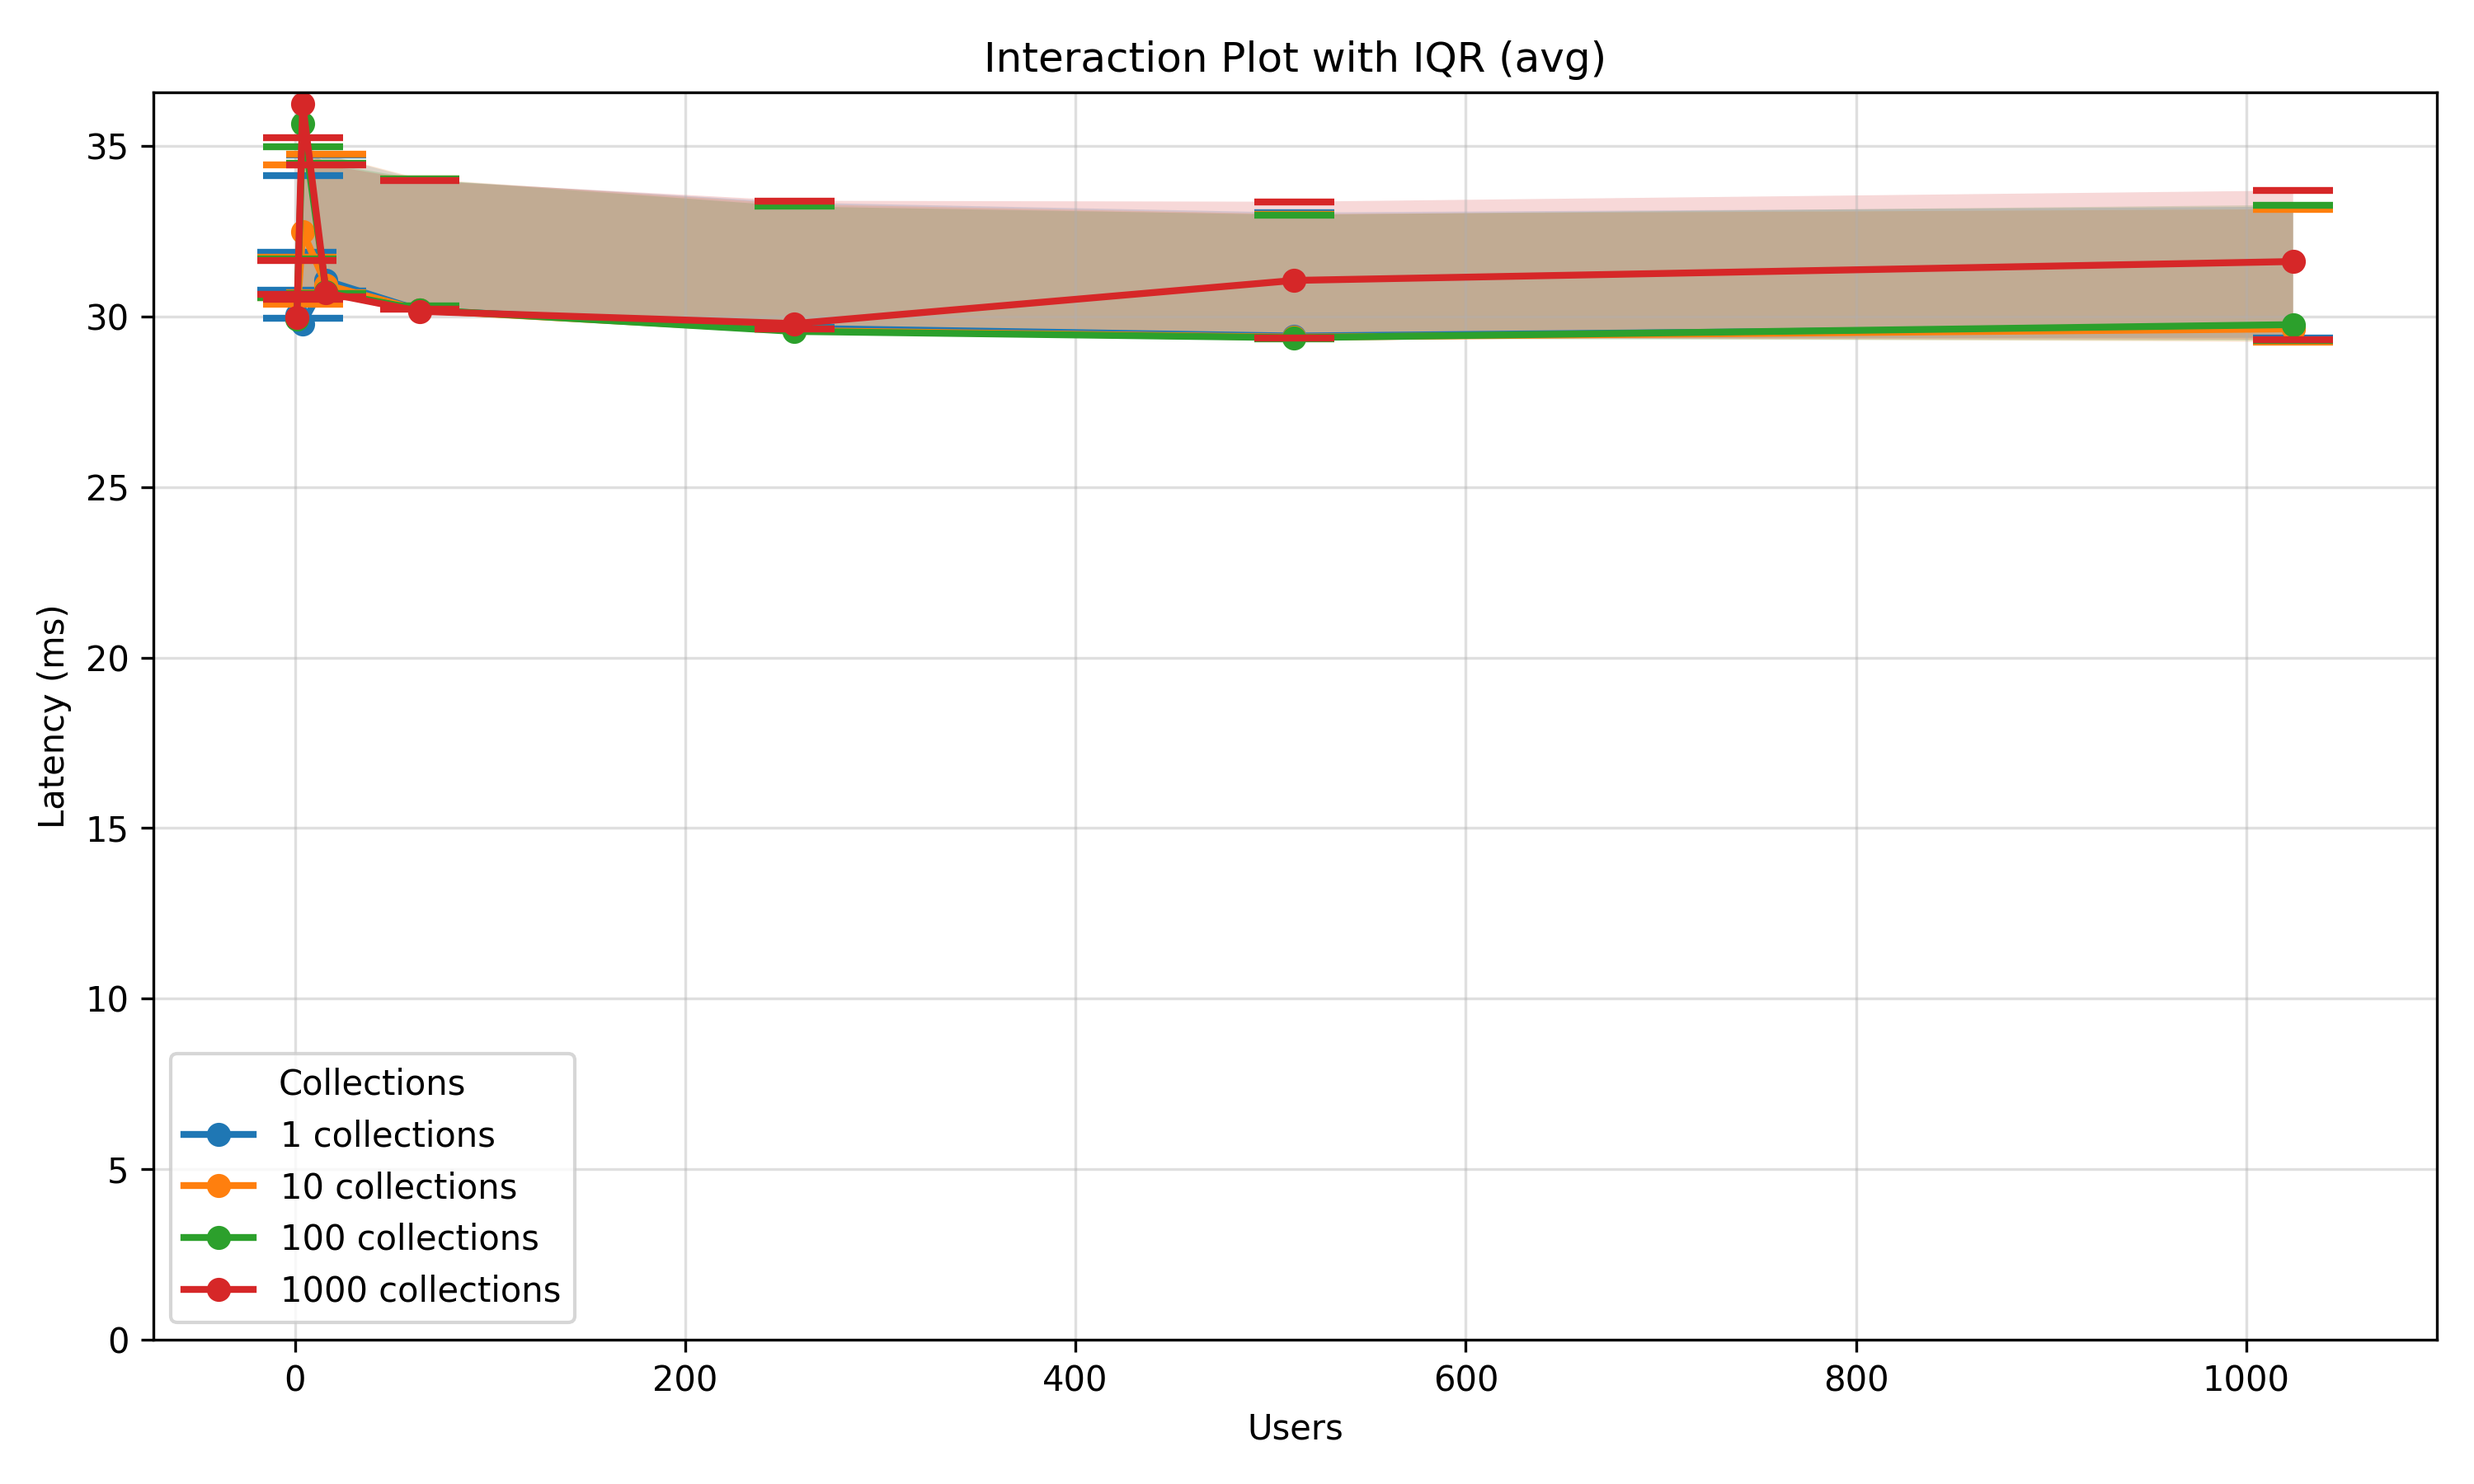
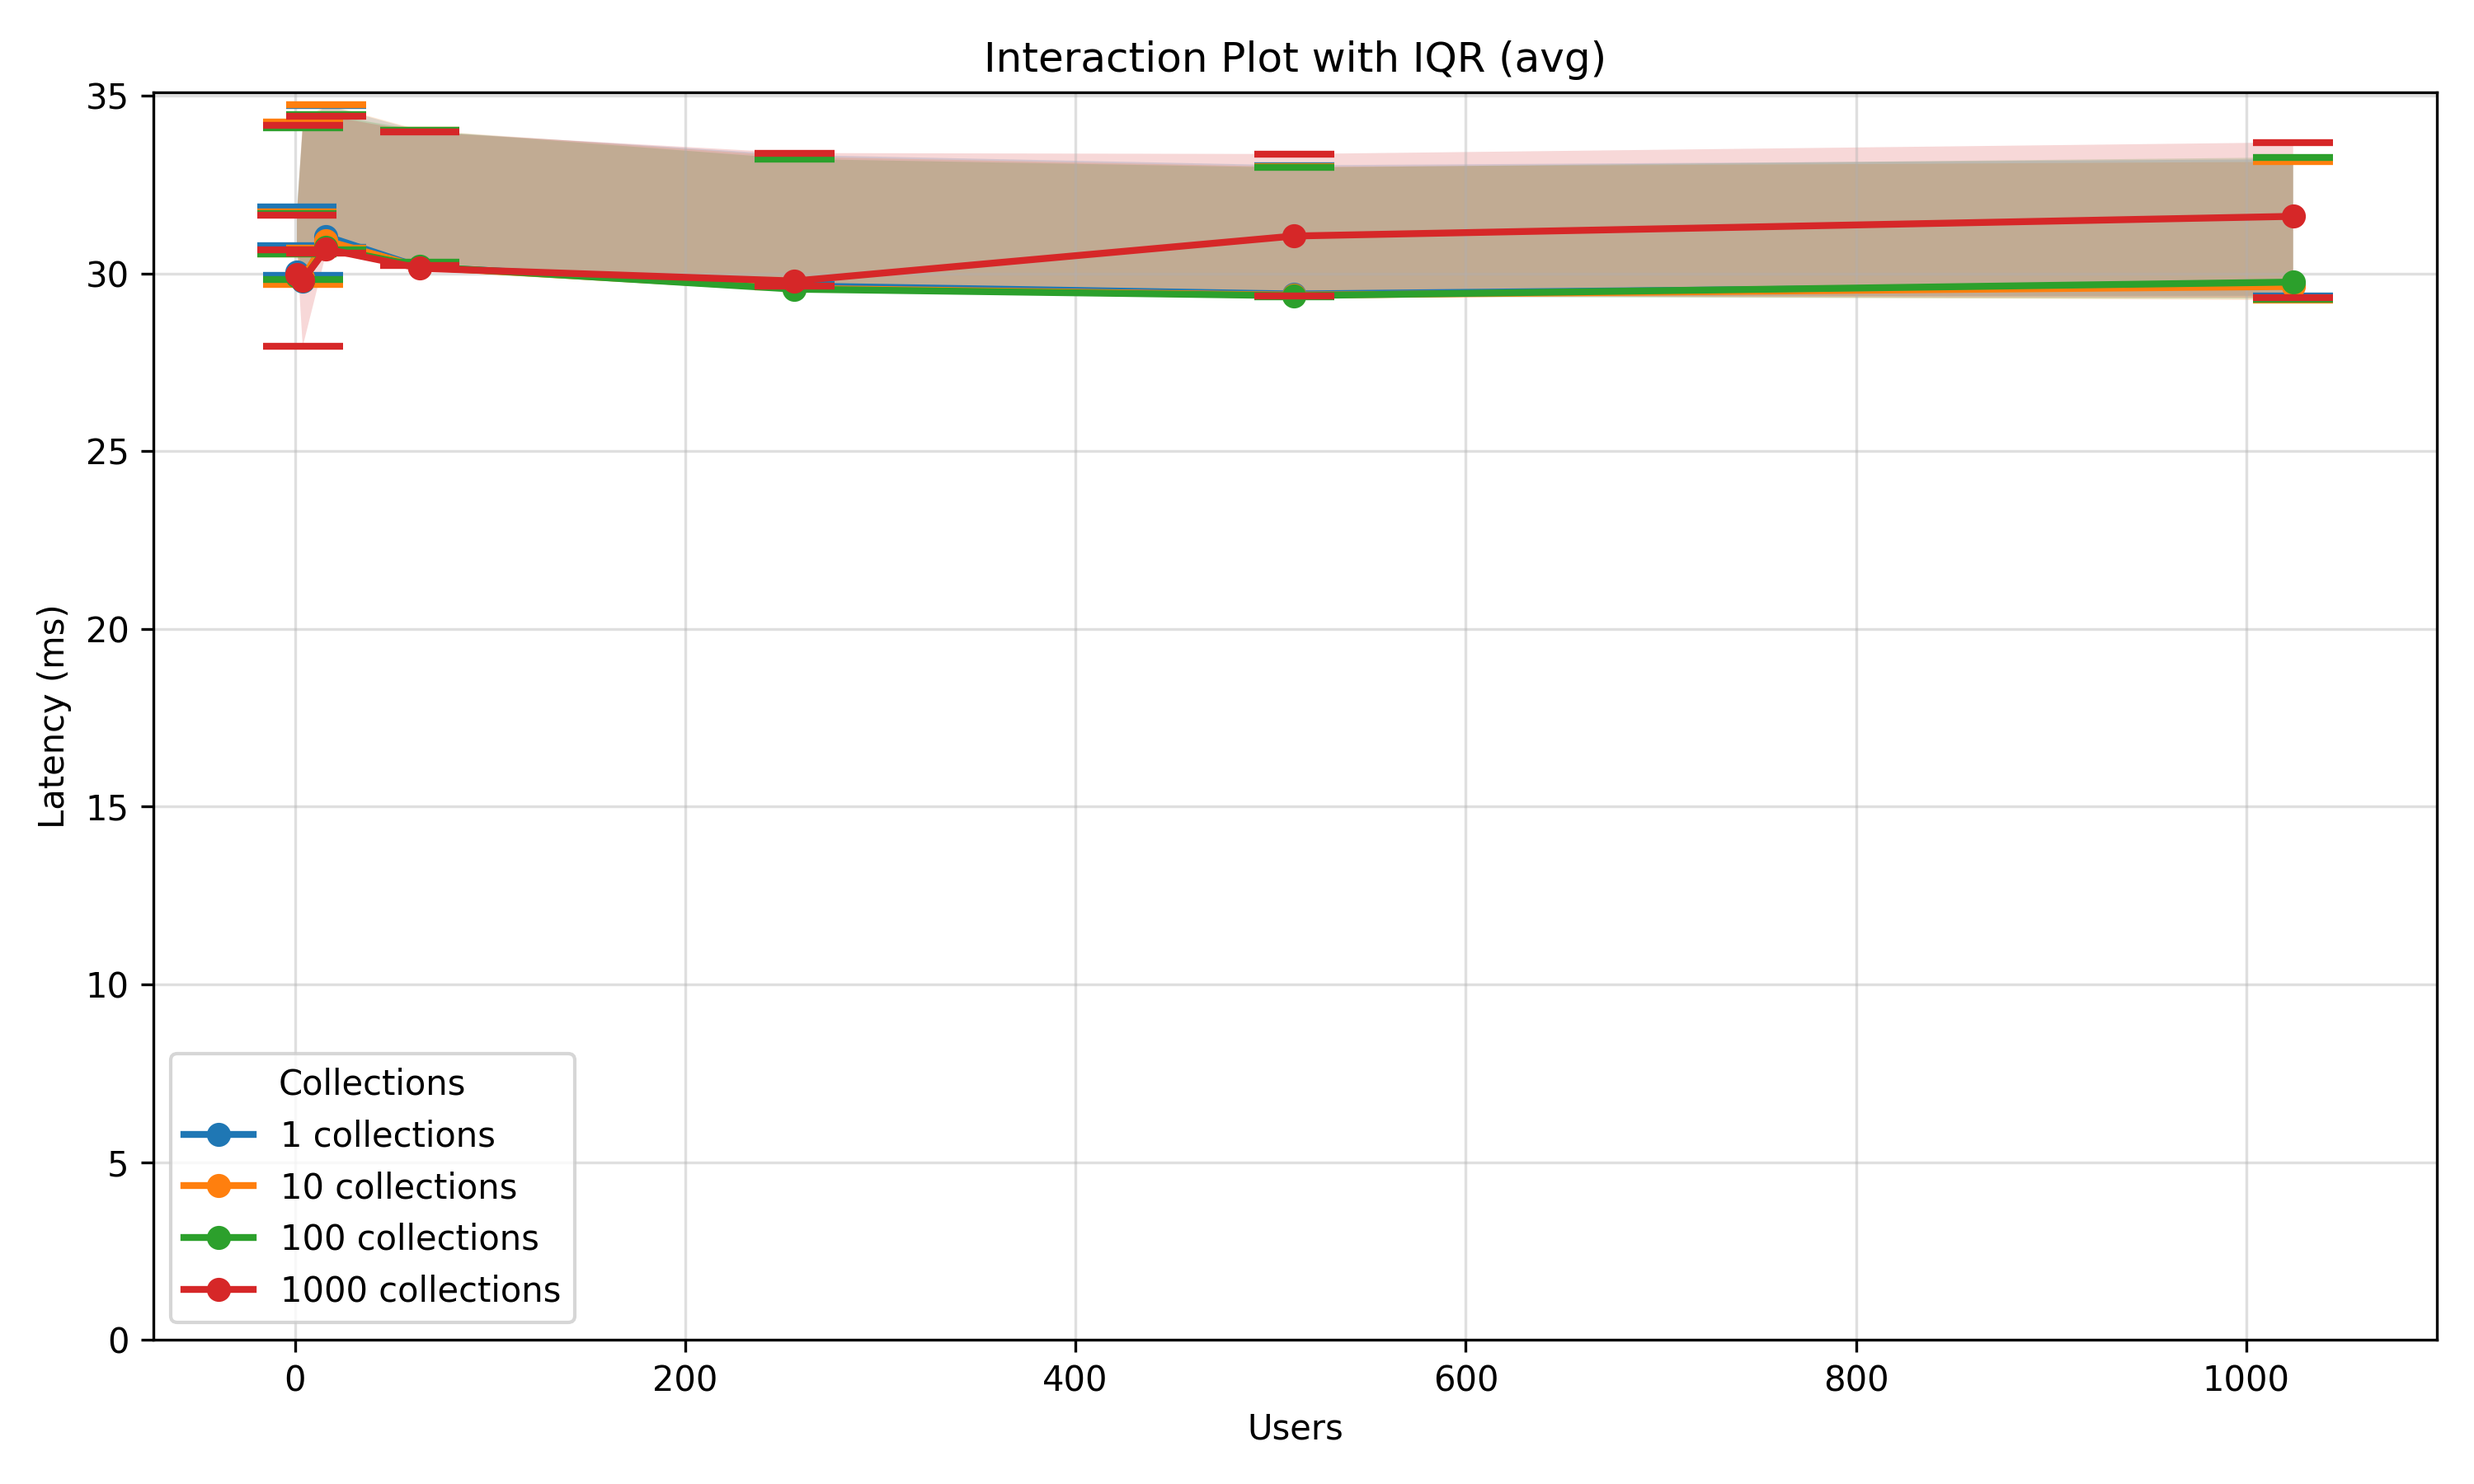
Add conflict_eventual experiment

diff --git a/ermes_benchmark/convergence_test/output_img/conflict_1/messaggi_chord_diagram.html b/ermes_benchmark/convergence_test/output_img/conflict_1/messaggi_chord_diagram.html
@@ -1889,7 +1889,7 @@ Forked      : Mike Bostock; https://observablehq.com/@d3/directed-chord-diagram
 
 })();
 
-    const jsonData = {"nodes":[{"name":"55_Gossip_Message","color":"#8c564b","opacity":0.8}, {"name":"50_Gossip_Message","color":"#1f77b4","opacity":0.8}, {"name":"59_Function_Invocation","color":"#bcbd22","opacity":0.8}, {"name":"51_Function_Invocation","color":"#ff7f0e","opacity":0.8}, {"name":"55_Offloaded_Function_Invocation","color":"#8c564b","opacity":0.8}, {"name":"51_Offloaded_Function_Invocation","color":"#ff7f0e","opacity":0.8}, {"name":"51_Gossip_Message","color":"#ff7f0e","opacity":0.8}, {"name":"55_Update_Propagation","color":"#8c564b","opacity":0.8}, {"name":"51_Update_Propagation","color":"#ff7f0e","opacity":0.8}, {"name":"56_Gossip_Message","color":"#e377c2","opacity":0.8}, {"name":"52_Gossip_Message","color":"#2ca02c","opacity":0.8}, {"name":"53_Gossip_Message","color":"#d62728","opacity":0.8}, {"name":"60_Function_Invocation","color":"#17becf","opacity":0.8}, {"name":"54_Function_Invocation","color":"#9467bd","opacity":0.8}, {"name":"54_Gossip_Message","color":"#9467bd","opacity":0.8}, {"name":"56_Collection_Received","color":"#e377c2","opacity":0.8}, {"name":"54_Collection_Received","color":"#9467bd","opacity":0.8}, {"name":"56_Update_Propagation","color":"#e377c2","opacity":0.8}, {"name":"54_Update_Propagation","color":"#9467bd","opacity":0.8}, {"name":"57_Offloaded_Function_Invocation","color":"#7f7f7f","opacity":0.8}, {"name":"57_Gossip_Message","color":"#7f7f7f","opacity":0.8}, {"name":"51_Collection_Received","color":"#ff7f0e","opacity":0.8}, {"name":"55_Collection_Received","color":"#8c564b","opacity":0.8}, {"name":"57_Update_Propagation","color":"#7f7f7f","opacity":0.8}, {"name":"54_Collection_Lookup","color":"#9467bd","opacity":0.8}, {"name":"56_Collection_Lookup","color":"#e377c2","opacity":0.8}, {"name":"54_Offloaded_Function_Invocation","color":"#9467bd","opacity":0.8}, {"name":"56_Offloaded_Function_Invocation","color":"#e377c2","opacity":0.8}, {"name":"57_Collection_Received","color":"#7f7f7f","opacity":0.8}, {"name":"57_Collection_Lookup","color":"#7f7f7f","opacity":0.8},], "links":[{"source":1,"target":0,"value":10.0,"opacity":0.9,"color":"#ffbb78"},{"source":21,"target":22,"value":1.0,"opacity":0.9,"color":"#aec7e8"},{"source":6,"target":0,"value":10.0,"opacity":0.9,"color":"#ffbb78"},{"source":5,"target":4,"value":462.0,"opacity":0.9,"color":"#2ca02c"},{"source":8,"target":7,"value":76.0,"opacity":0.9,"color":"#98df8a"},{"source":10,"target":9,"value":10.0,"opacity":0.9,"color":"#ffbb78"},{"source":11,"target":9,"value":10.0,"opacity":0.9,"color":"#ffbb78"},{"source":24,"target":25,"value":1.0,"opacity":0.9,"color":"#1f77b4"},{"source":14,"target":9,"value":10.0,"opacity":0.9,"color":"#ffbb78"},{"source":26,"target":27,"value":688.0,"opacity":0.9,"color":"#2ca02c"},{"source":22,"target":28,"value":1.0,"opacity":0.9,"color":"#aec7e8"},{"source":0,"target":1,"value":10.0,"opacity":0.9,"color":"#ffbb78"},{"source":0,"target":6,"value":10.0,"opacity":0.9,"color":"#ffbb78"},{"source":0,"target":20,"value":10.0,"opacity":0.9,"color":"#ffbb78"},{"source":4,"target":5,"value":76.0,"opacity":0.9,"color":"#2ca02c"},{"source":4,"target":19,"value":412.0,"opacity":0.9,"color":"#2ca02c"},{"source":7,"target":8,"value":924.0,"opacity":0.9,"color":"#98df8a"},{"source":7,"target":23,"value":176.0,"opacity":0.9,"color":"#98df8a"},{"source":25,"target":29,"value":1.0,"opacity":0.9,"color":"#1f77b4"},{"source":15,"target":16,"value":1.0,"opacity":0.9,"color":"#aec7e8"},{"source":9,"target":10,"value":10.0,"opacity":0.9,"color":"#ffbb78"},{"source":9,"target":11,"value":10.0,"opacity":0.9,"color":"#ffbb78"},{"source":9,"target":14,"value":10.0,"opacity":0.9,"color":"#ffbb78"},{"source":9,"target":20,"value":10.0,"opacity":0.9,"color":"#ffbb78"},{"source":27,"target":19,"value":638.0,"opacity":0.9,"color":"#2ca02c"},{"source":17,"target":18,"value":624.0,"opacity":0.9,"color":"#98df8a"},{"source":28,"target":15,"value":1.0,"opacity":0.9,"color":"#aec7e8"},{"source":20,"target":0,"value":10.0,"opacity":0.9,"color":"#ffbb78"},{"source":20,"target":9,"value":10.0,"opacity":0.9,"color":"#ffbb78"},{"source":19,"target":4,"value":176.0,"opacity":0.9,"color":"#2ca02c"},{"source":23,"target":7,"value":824.0,"opacity":0.9,"color":"#98df8a"},{"source":23,"target":17,"value":724.0,"opacity":0.9,"color":"#98df8a"},{"source":2,"target":3,"value":1000.0,"opacity":0.9,"color":"#ff7f0e"},{"source":12,"target":13,"value":1000.0,"opacity":0.9,"color":"#ff7f0e"}]};
+    const jsonData = {"nodes":[{"name":"55_Gossip_Message","color":"#8c564b","opacity":0.8}, {"name":"50_Gossip_Message","color":"#1f77b4","opacity":0.8}, {"name":"59_Function_Invocation","color":"#bcbd22","opacity":0.8}, {"name":"51_Function_Invocation","color":"#ff7f0e","opacity":0.8}, {"name":"55_Offloaded_Function_Invocation","color":"#8c564b","opacity":0.8}, {"name":"51_Offloaded_Function_Invocation","color":"#ff7f0e","opacity":0.8}, {"name":"51_Gossip_Message","color":"#ff7f0e","opacity":0.8}, {"name":"55_Update_Propagation","color":"#8c564b","opacity":0.8}, {"name":"51_Update_Propagation","color":"#ff7f0e","opacity":0.8}, {"name":"56_Gossip_Message","color":"#e377c2","opacity":0.8}, {"name":"52_Gossip_Message","color":"#2ca02c","opacity":0.8}, {"name":"53_Gossip_Message","color":"#d62728","opacity":0.8}, {"name":"60_Function_Invocation","color":"#17becf","opacity":0.8}, {"name":"54_Function_Invocation","color":"#9467bd","opacity":0.8}, {"name":"54_Gossip_Message","color":"#9467bd","opacity":0.8}, {"name":"56_Collection_Received","color":"#e377c2","opacity":0.8}, {"name":"54_Collection_Received","color":"#9467bd","opacity":0.8}, {"name":"56_Update_Propagation","color":"#e377c2","opacity":0.8}, {"name":"54_Update_Propagation","color":"#9467bd","opacity":0.8}, {"name":"57_Offloaded_Function_Invocation","color":"#7f7f7f","opacity":0.8}, {"name":"51_Collection_Received","color":"#ff7f0e","opacity":0.8}, {"name":"55_Collection_Received","color":"#8c564b","opacity":0.8}, {"name":"57_Gossip_Message","color":"#7f7f7f","opacity":0.8}, {"name":"57_Update_Propagation","color":"#7f7f7f","opacity":0.8}, {"name":"54_Collection_Lookup","color":"#9467bd","opacity":0.8}, {"name":"56_Collection_Lookup","color":"#e377c2","opacity":0.8}, {"name":"54_Offloaded_Function_Invocation","color":"#9467bd","opacity":0.8}, {"name":"56_Offloaded_Function_Invocation","color":"#e377c2","opacity":0.8}, {"name":"57_Collection_Received","color":"#7f7f7f","opacity":0.8}, {"name":"57_Collection_Lookup","color":"#7f7f7f","opacity":0.8},], "links":[{"source":1,"target":0,"value":10.0,"opacity":0.9,"color":"#ffbb78"},{"source":20,"target":21,"value":1.0,"opacity":0.9,"color":"#aec7e8"},{"source":6,"target":0,"value":10.0,"opacity":0.9,"color":"#ffbb78"},{"source":5,"target":4,"value":460.0,"opacity":0.9,"color":"#2ca02c"},{"source":8,"target":7,"value":79.0,"opacity":0.9,"color":"#98df8a"},{"source":10,"target":9,"value":10.0,"opacity":0.9,"color":"#ffbb78"},{"source":11,"target":9,"value":10.0,"opacity":0.9,"color":"#ffbb78"},{"source":24,"target":25,"value":1.0,"opacity":0.9,"color":"#1f77b4"},{"source":14,"target":9,"value":10.0,"opacity":0.9,"color":"#ffbb78"},{"source":26,"target":27,"value":689.0,"opacity":0.9,"color":"#2ca02c"},{"source":21,"target":28,"value":1.0,"opacity":0.9,"color":"#aec7e8"},{"source":0,"target":1,"value":10.0,"opacity":0.9,"color":"#ffbb78"},{"source":0,"target":6,"value":10.0,"opacity":0.9,"color":"#ffbb78"},{"source":0,"target":22,"value":10.0,"opacity":0.9,"color":"#ffbb78"},{"source":4,"target":5,"value":78.0,"opacity":0.9,"color":"#2ca02c"},{"source":4,"target":19,"value":410.0,"opacity":0.9,"color":"#2ca02c"},{"source":7,"target":8,"value":921.0,"opacity":0.9,"color":"#98df8a"},{"source":7,"target":23,"value":179.0,"opacity":0.9,"color":"#98df8a"},{"source":25,"target":29,"value":1.0,"opacity":0.9,"color":"#1f77b4"},{"source":15,"target":16,"value":1.0,"opacity":0.9,"color":"#aec7e8"},{"source":9,"target":10,"value":10.0,"opacity":0.9,"color":"#ffbb78"},{"source":9,"target":11,"value":10.0,"opacity":0.9,"color":"#ffbb78"},{"source":9,"target":14,"value":10.0,"opacity":0.9,"color":"#ffbb78"},{"source":9,"target":22,"value":10.0,"opacity":0.9,"color":"#ffbb78"},{"source":27,"target":19,"value":639.0,"opacity":0.9,"color":"#2ca02c"},{"source":17,"target":18,"value":623.0,"opacity":0.9,"color":"#98df8a"},{"source":28,"target":15,"value":1.0,"opacity":0.9,"color":"#aec7e8"},{"source":22,"target":0,"value":10.0,"opacity":0.9,"color":"#ffbb78"},{"source":22,"target":9,"value":10.0,"opacity":0.9,"color":"#ffbb78"},{"source":19,"target":4,"value":178.0,"opacity":0.9,"color":"#2ca02c"},{"source":23,"target":7,"value":821.0,"opacity":0.9,"color":"#98df8a"},{"source":23,"target":17,"value":723.0,"opacity":0.9,"color":"#98df8a"},{"source":2,"target":3,"value":1000.0,"opacity":0.9,"color":"#ff7f0e"},{"source":12,"target":13,"value":1000.0,"opacity":0.9,"color":"#ff7f0e"}]};
 
     const data = jsonData.links.map(({source, target, value, opacity, color}) => ({
         source: jsonData.nodes[source].name,

diff --git a/ermes_benchmark/convergence_test/code/config.py b/ermes_benchmark/convergence_test/code/config.py
@@ -66,6 +66,12 @@ eq_state = {
         'readCollection-10.10.101.51:12345': '10.10.101.51:12345',
         'readCollection-10.10.101.54:12345': '10.10.101.54:12345',
     },
+    'conflict_eventual': {
+        'writeCollection-10.10.101.51:12345': '10.10.101.51:12345',
+        'writeCollection-10.10.101.54:12345': '10.10.101.54:12345',
+        'readCollection-10.10.101.51:12345': '10.10.101.51:12345',
+        'readCollection-10.10.101.54:12345': '10.10.101.54:12345',
+    },
     'conflict_2': {
         'writeTwoCollections-10.10.101.51:12345': '10.10.101.57:12345',
         'writeTwoCollections-10.10.101.54:12345': '10.10.101.57:12345',

diff --git a/ermes_benchmark/convergence_test/code/data_processor.py b/ermes_benchmark/convergence_test/code/data_processor.py
@@ -243,7 +243,7 @@ def parse_dfs(dati_csv: Dict[str, pd.DataFrame], dati_timestamp_per_ip: Dict[str
 
         current_df['Group'] = current_df.apply(get_window_group, axis=1)
 
-        current_df['Duration'] = current_df['FuncDuration'] # / 1000 Uncomment if we re-run these experiments
+        current_df['Duration'] = current_df['FuncDuration'] / 1000.0
         current_df['StartTime'] = pd.to_datetime(current_df['StartTime'])
         current_df['Is_Local'] = current_df['EntryHost'] == current_df['ExecHost']
         current_df = current_df.drop(columns=['StartTime_dt'])
